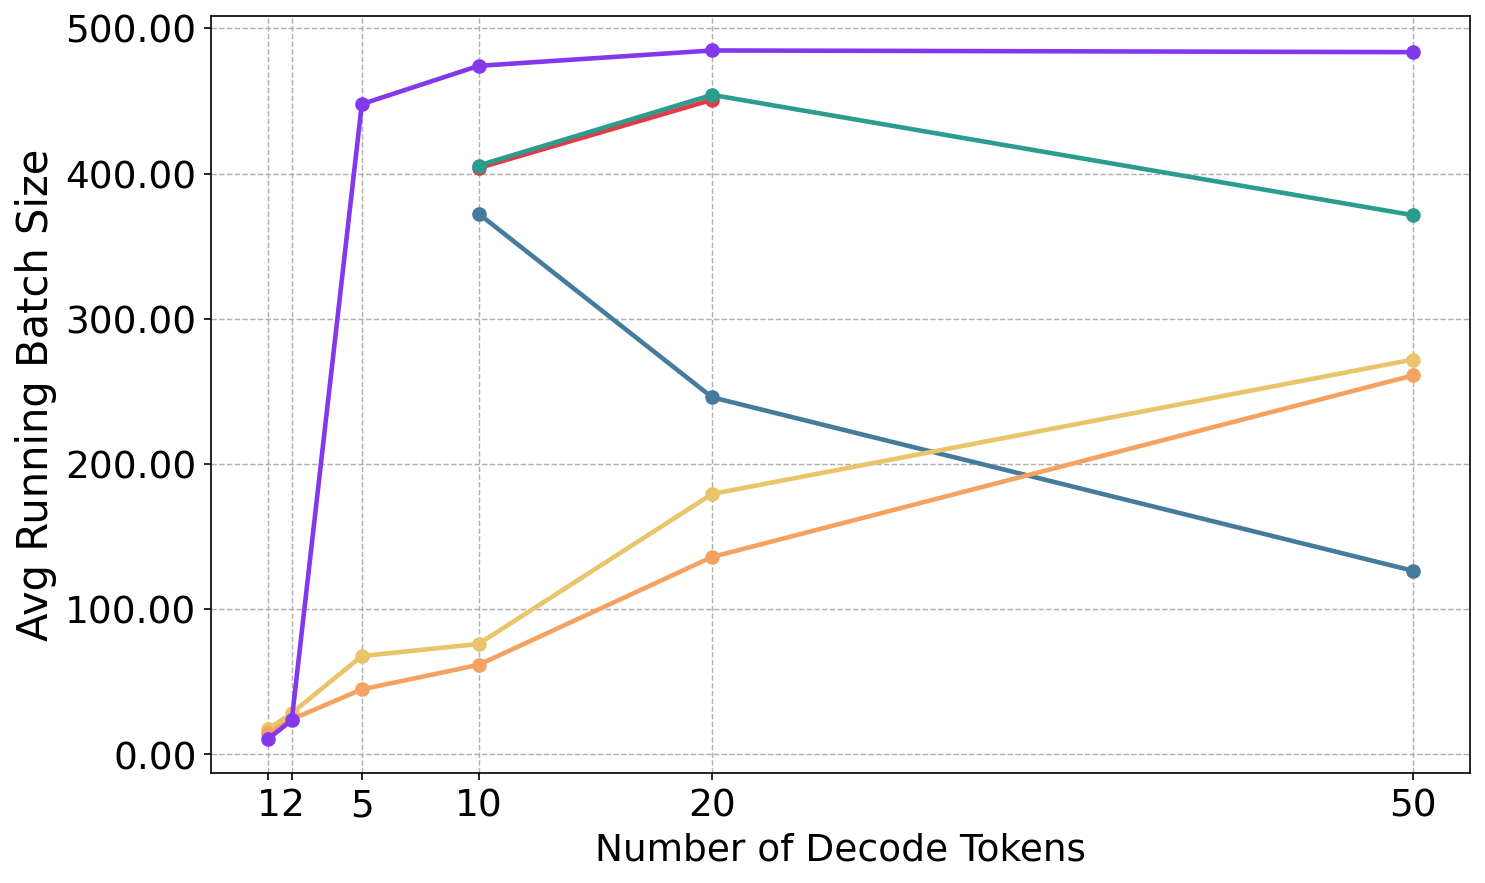
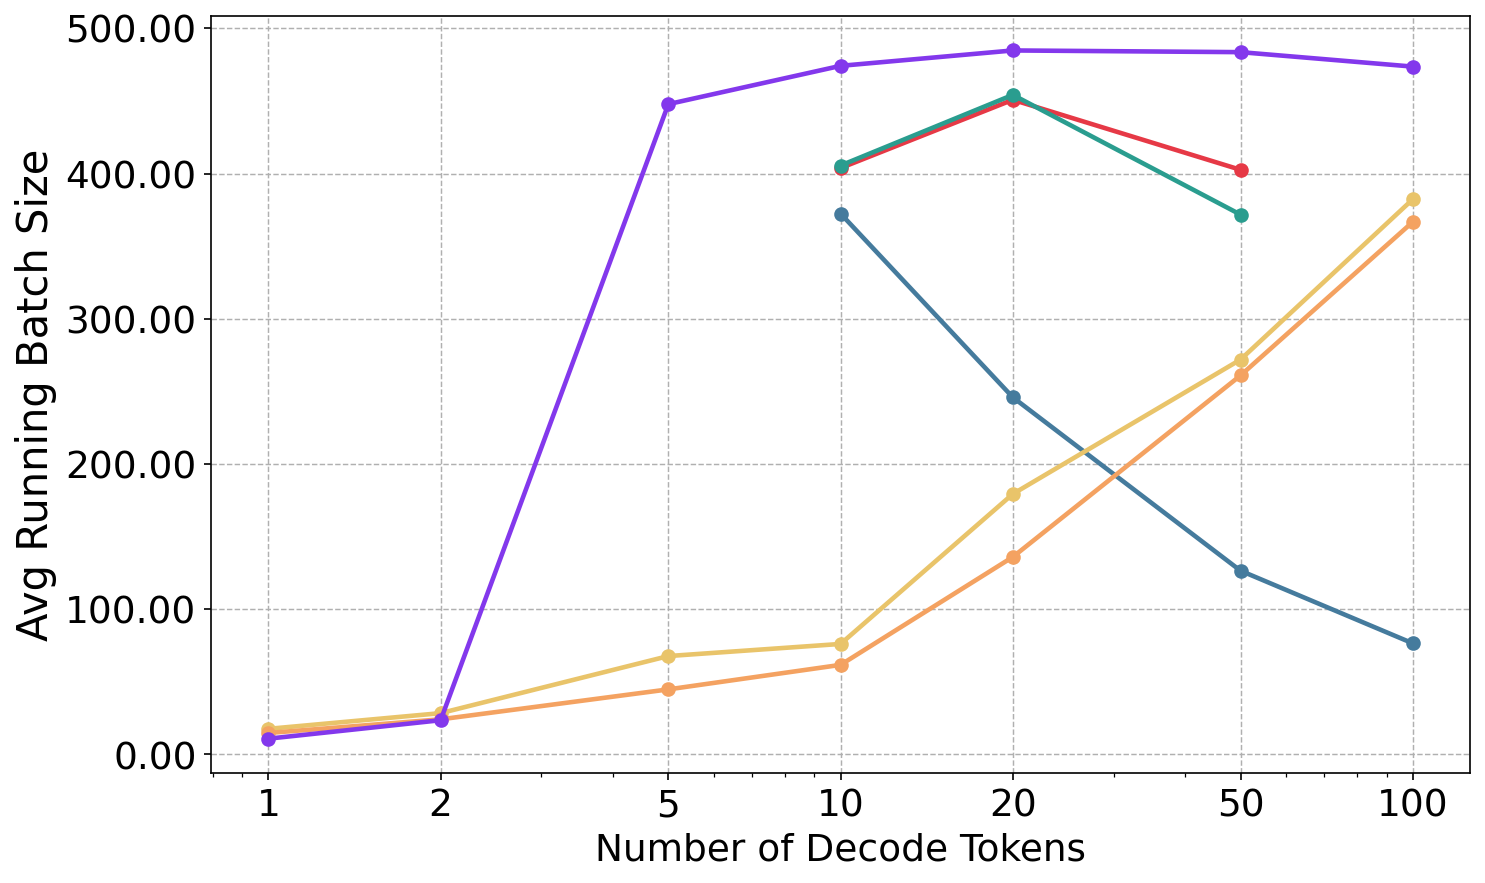
tp vs decode

diff --git a/code/vllm/decode_tokens_logs/plot.py b/code/vllm/decode_tokens_logs/plot.py
@@ -126,11 +126,13 @@ def make_plot(metric_key, ylabel, title, outpath):
         ax.plot(xs, ys, marker="o", linewidth=2.2,
                 markersize=6, color=color, label=label)
 
+    ax.set_xscale("log")
     ax.set_xlabel("Number of Decode Tokens", fontsize=18)
     ax.set_ylabel(ylabel, fontsize=20)
 
     # dynamic ticks
     ax.set_xticks(all_tokens)
+    ax.get_xaxis().set_major_formatter(ticker.ScalarFormatter())
 
     # proper tick formatting
     ax.tick_params(axis="both", labelsize=18)
